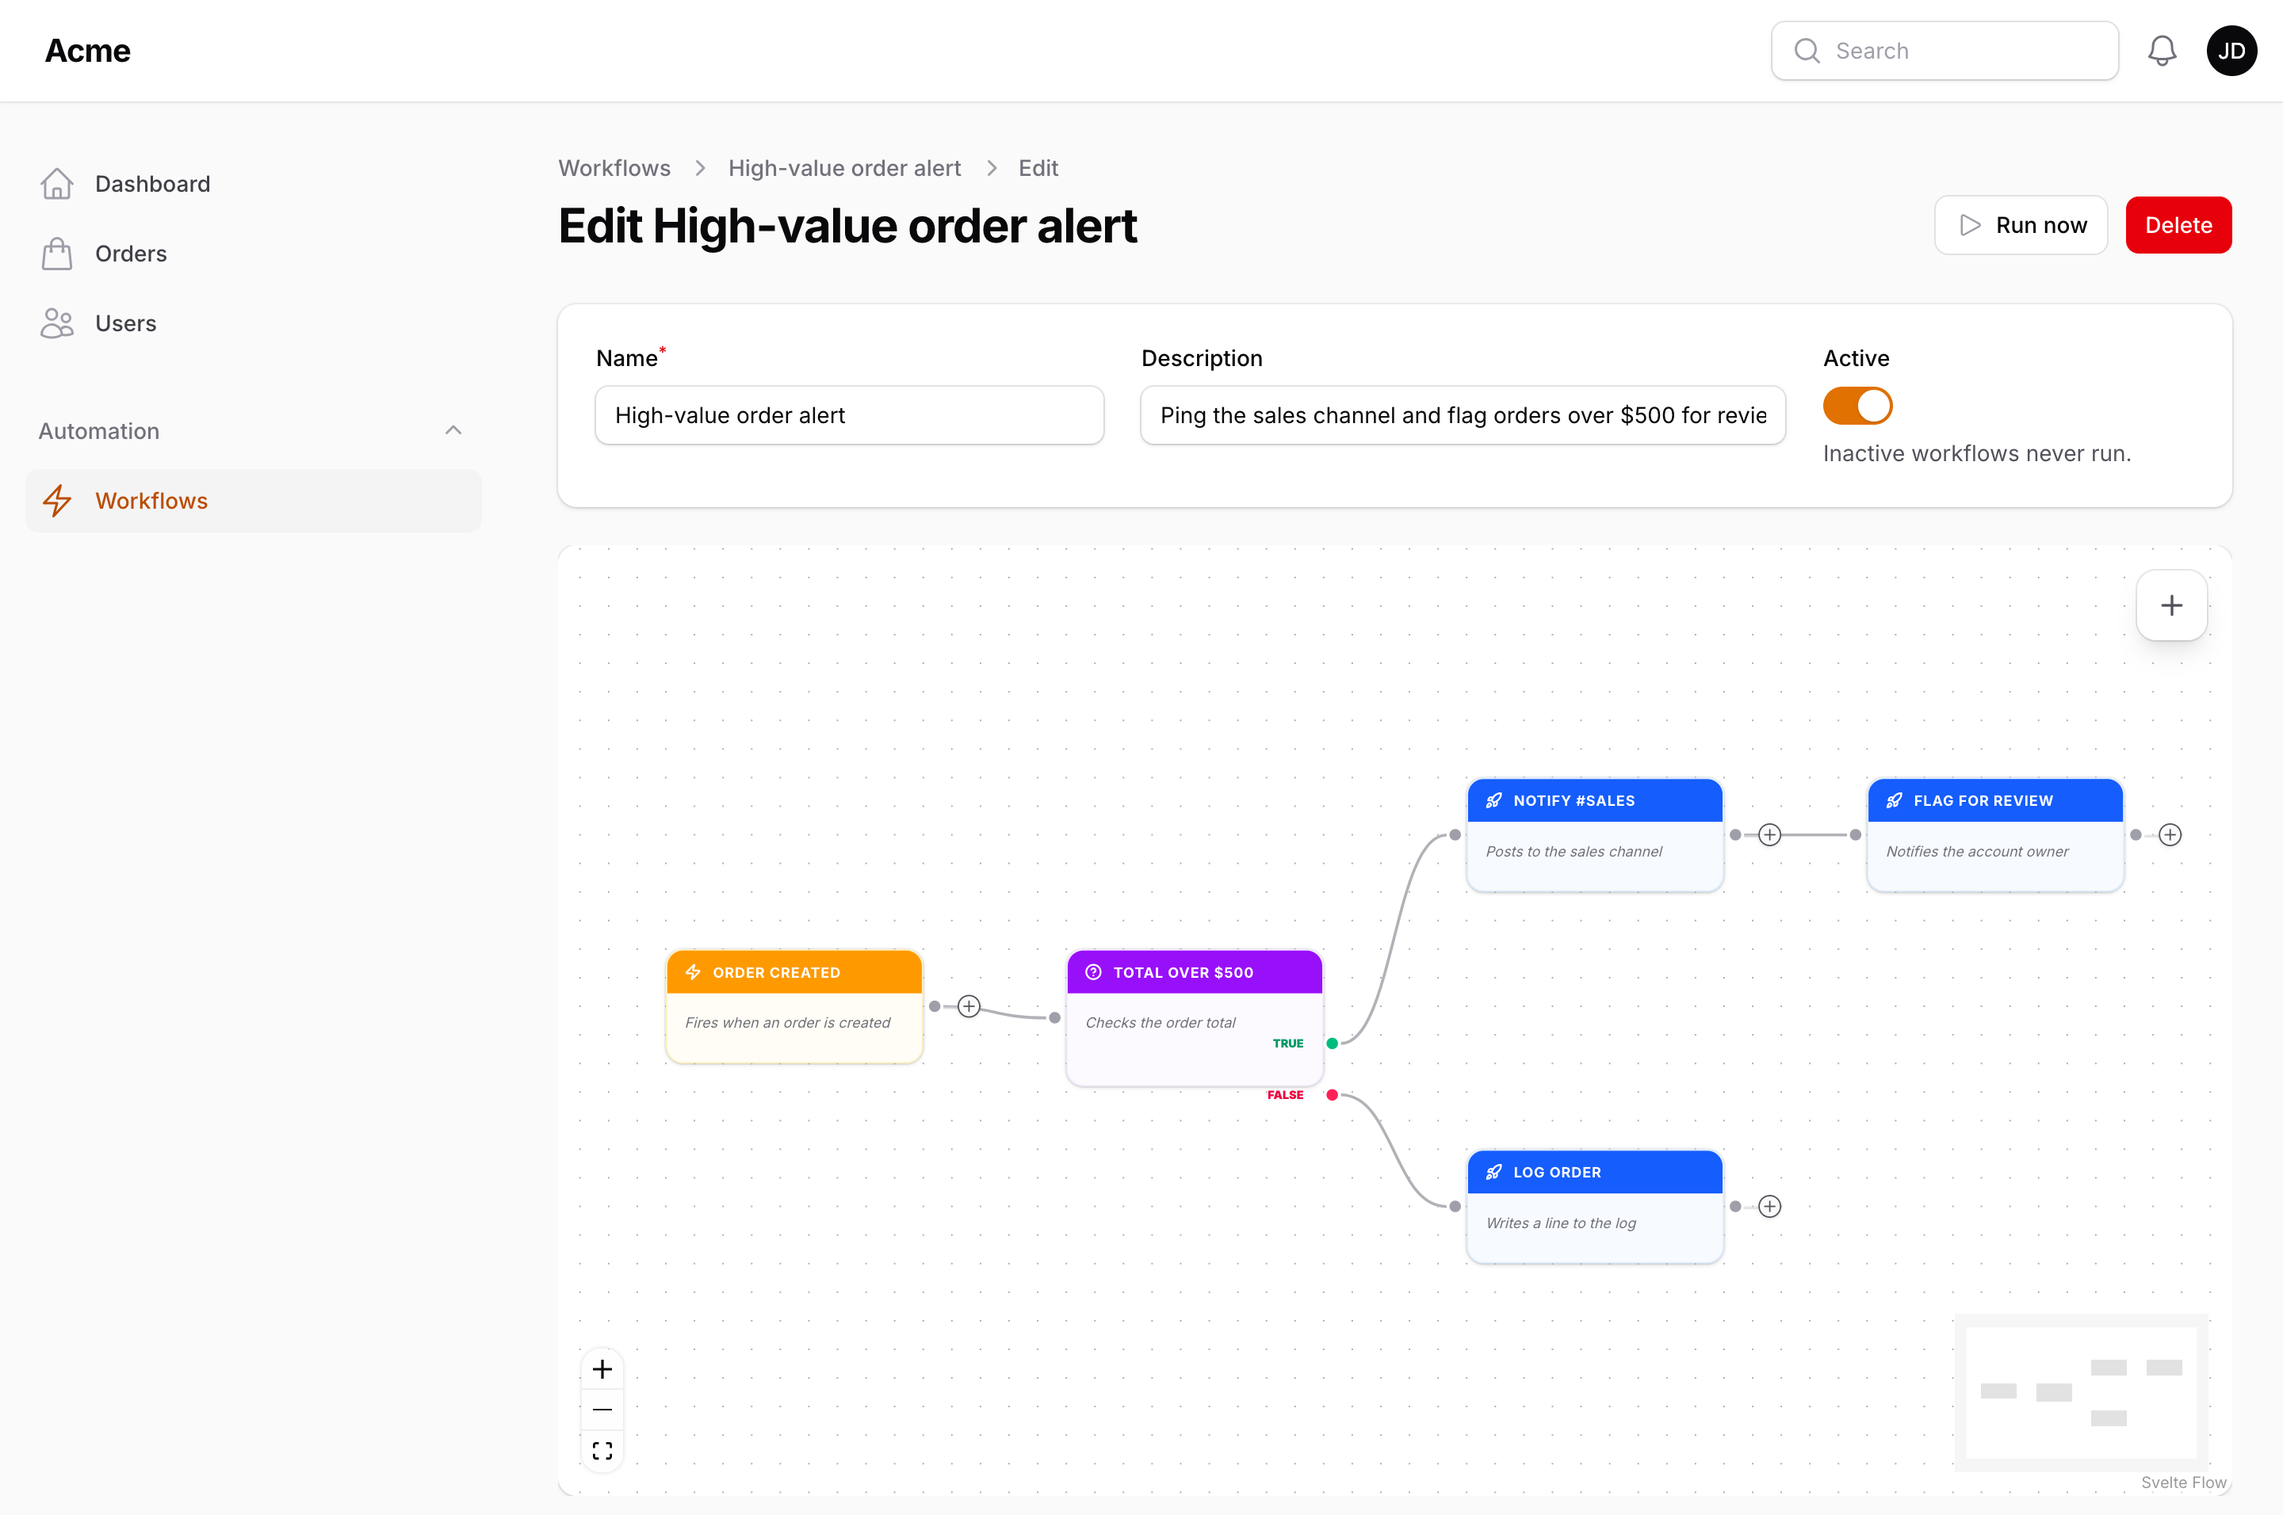
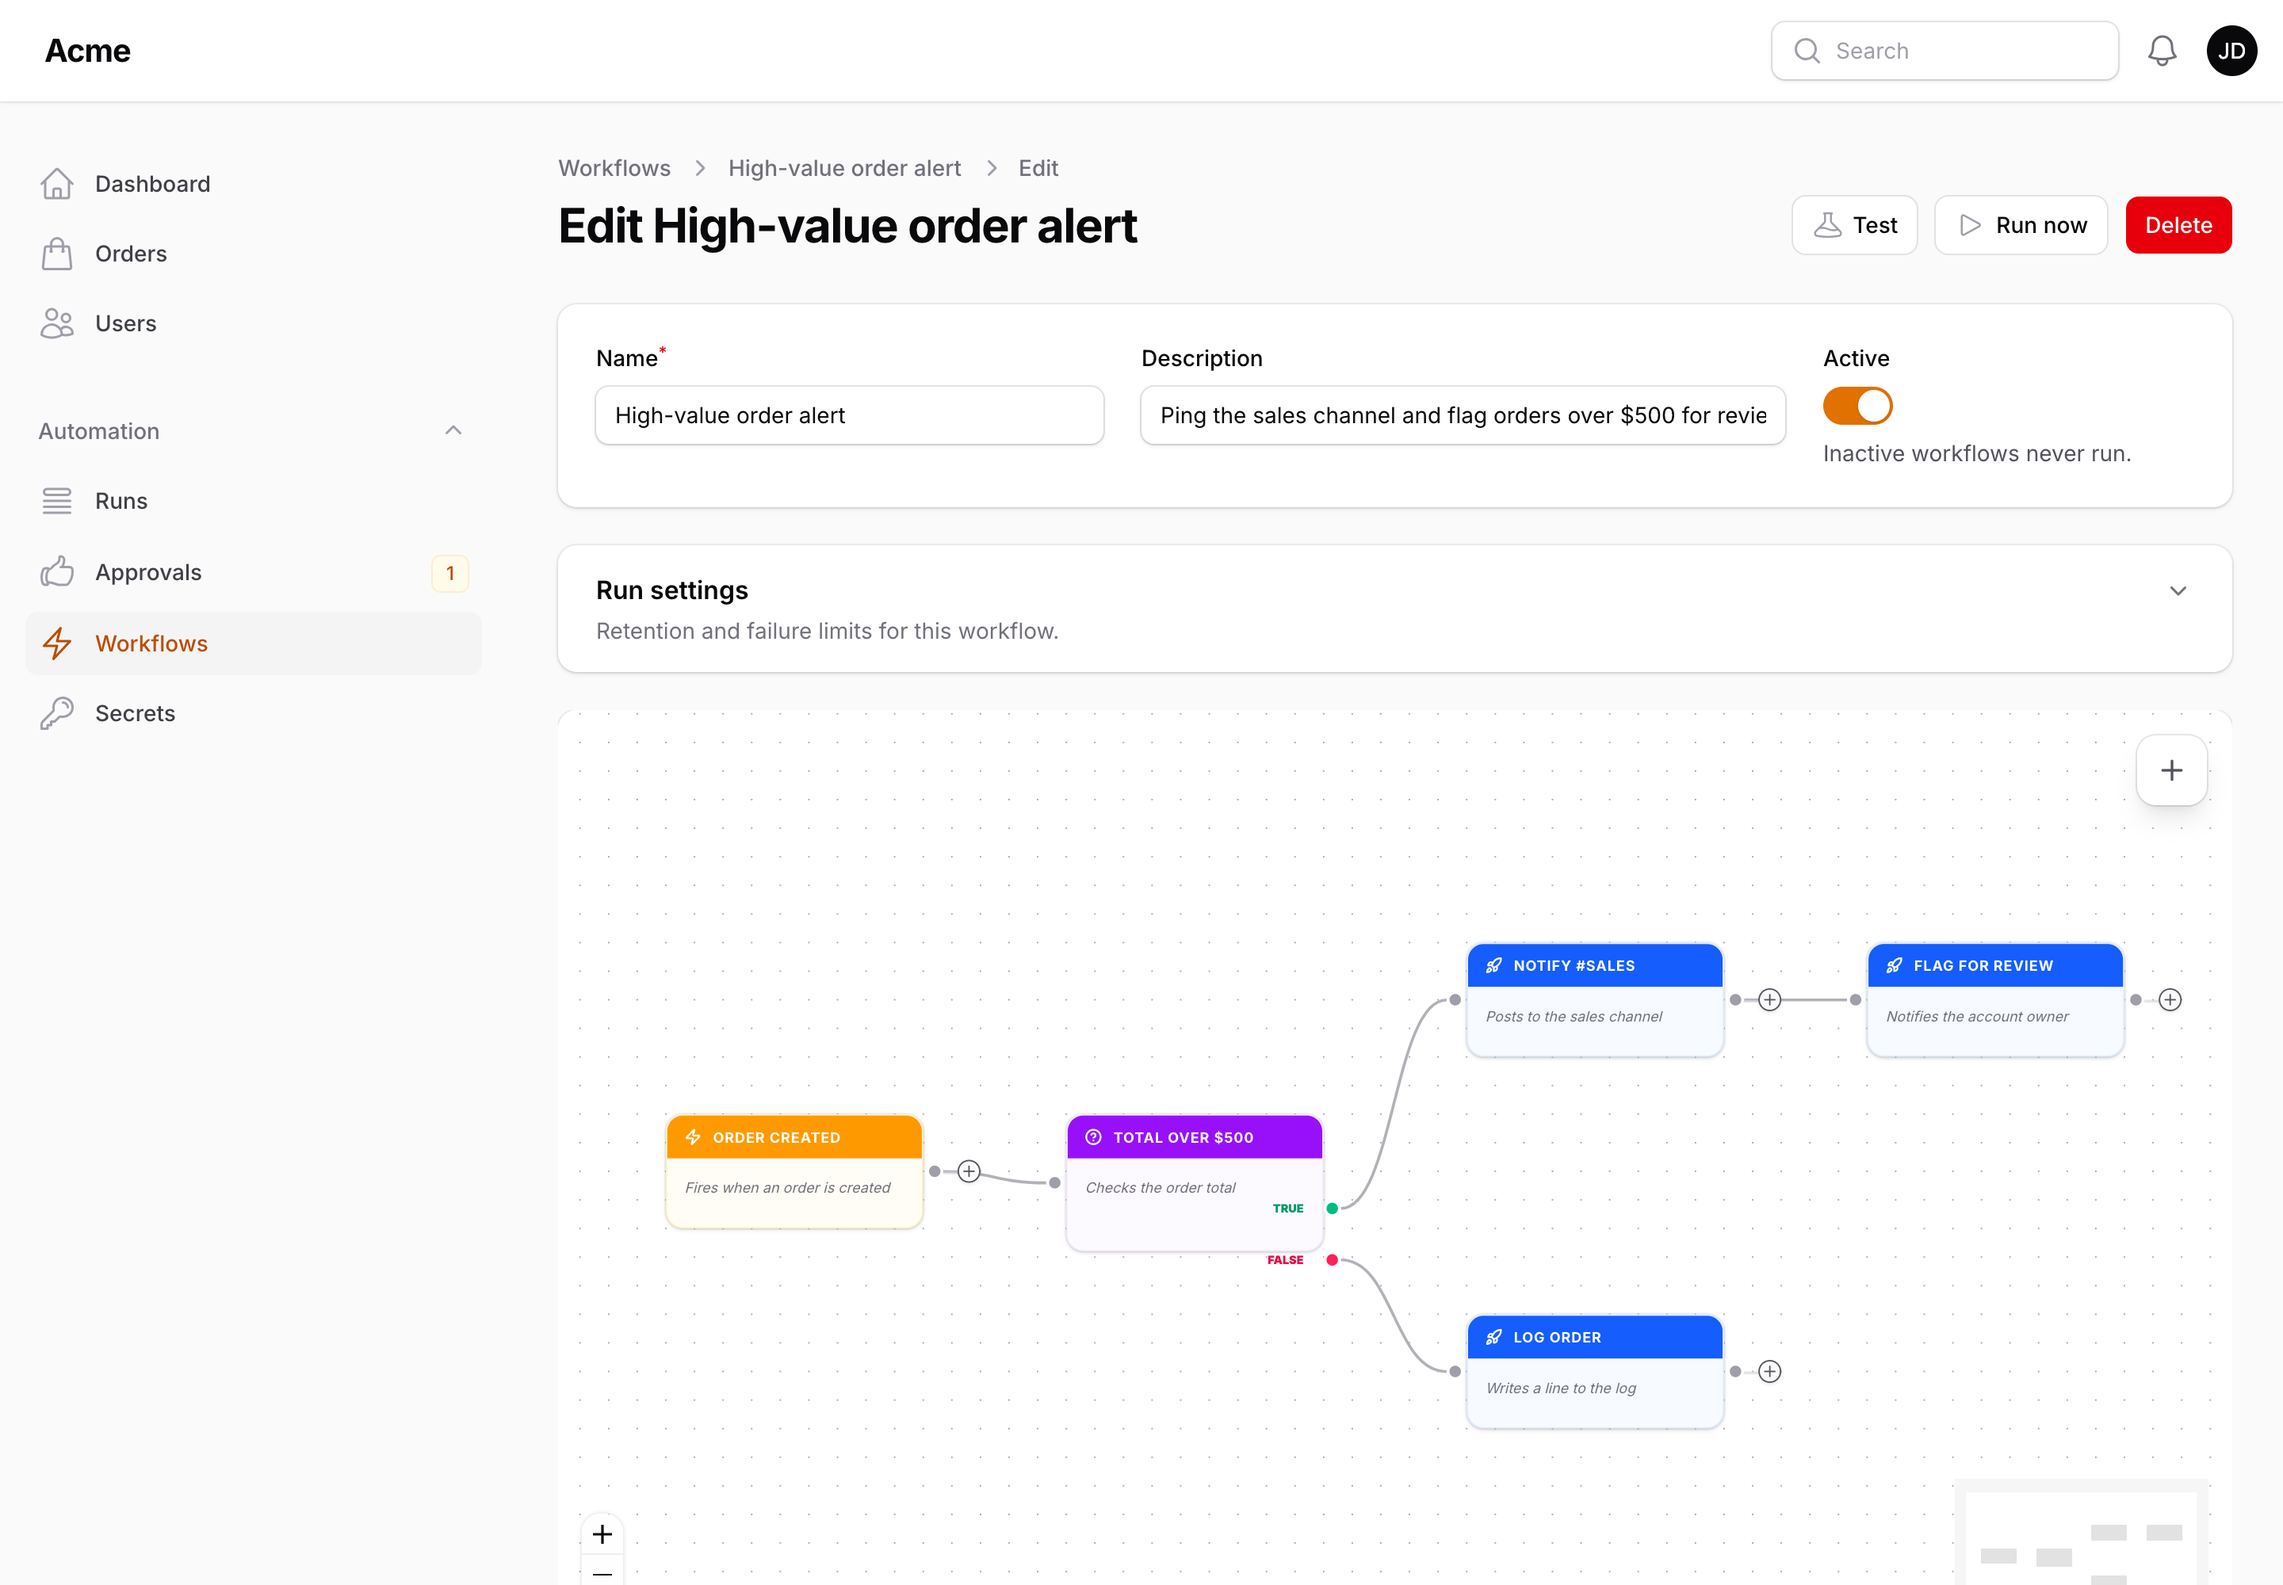
docs: re-capture screenshots; add the Runs, Approvals, Secrets, loop and approval canvas images

diff --git a/docs/approvals.md b/docs/approvals.md
@@ -4,6 +4,8 @@ Two actions pause a run until something outside the workflow happens. **Ask for 
 
 ## Ask for approval
 
+![An Ask for approval node with Approved, Rejected and Timed out outputs](https://raw.githubusercontent.com/packstub/filament-flow/main/docs/images/canvas-approval.png)
+
 | Setting | |
 | --- | --- |
 | Approvers | Email addresses of panel users, comma separated; placeholders allowed (`{{ model.owner.email }}`). Empty lets anyone who can open the Approvals page decide |
@@ -22,6 +24,8 @@ Outputs: **Approved**, **Rejected**, **Timed out**. After the decision the nodes
 | `{{ approval.at }}` | When it was decided |
 
 ### Deciding
+
+![The Approvals page with a pending request](https://raw.githubusercontent.com/packstub/filament-flow/main/docs/images/approvals.png)
 
 - **The Approvals page** (next to Workflows in the navigation, with a badge counting the pending requests for the signed-in user) lists the requests the user may decide, with Approve / Reject buttons and an optional comment. Users who may manage workflows see every request and can **cancel** one, which continues the run along **Timed out**.
 - **The notification buttons and email links** are signed URLs (`flow/approvals/{wait}/{outcome}`, valid for `approvals.link_lifetime_hours`, 72 by default) that need a signed-in user who is one of the approvers; they decide and redirect to the Approvals page. A request that was already decided shows a warning and changes nothing.

diff --git a/docs/runs.md b/docs/runs.md
@@ -105,6 +105,8 @@ Test runs are stored like any run, flagged with a beaker icon, hidden from the R
 
 ## The Runs page
 
+![The Runs page with its stats and filters](https://raw.githubusercontent.com/packstub/filament-flow/main/docs/images/runs-page.png)
+
 Besides the Runs tab under each workflow, the **Runs** page (next to Workflows in the navigation) lists every run across workflows, with filters by status, workflow, date and test runs, the details modal, **Run again**, and **Open on the canvas** — which opens the workflow with the failing node selected and centred. Step labels in the details modal link to their node the same way. Four stats sit above the table: runs today, failed today, runs waiting, and the 7-day success rate.
 
 Steps are stored one row per step in the `flow_workflow_steps` table (`WorkflowStep` model; `$run->steps` returns them as arrays, `$run->steps()` as the relationship) rather than in a JSON column, so a run with hundreds of steps costs one insert per step and the Runs page can count and filter them.

diff --git a/docs/actions.md b/docs/actions.md
@@ -187,6 +187,8 @@ The action changes nothing, so a [test run](runs.md#test-runs) executes it for r
 
 Runs the nodes on its **Each item** output once per item of a list, then continues along **Done**.
 
+![A Find records node feeding a For each loop with its Each item and Done outputs](https://raw.githubusercontent.com/packstub/filament-flow/main/docs/images/canvas-loop.png)
+
 | Setting | |
 | --- | --- |
 | Items | A placeholder for a list — `{{ last.records }}` after **Find records**, `{{ webhook.items }}`, or comma-separated text |

diff --git a/docs/secrets.md b/docs/secrets.md
@@ -4,6 +4,8 @@ Slack webhook URLs, API tokens, bot tokens and passwords do not belong in a node
 
 ## Storing a secret
 
+![The Secrets page listing keys, never values](https://raw.githubusercontent.com/packstub/filament-flow/main/docs/images/secrets.png)
+
 | Field | |
 | --- | --- |
 | Key | Letters, digits and underscores, e.g. `slack_webhook`, `telegram_bot_token`. Unique |
